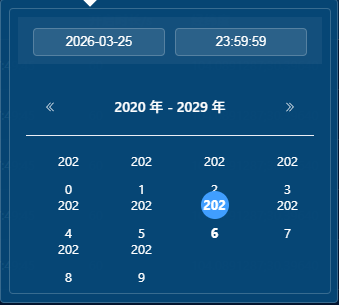
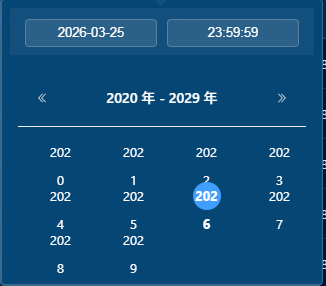
fix: 修复 DateTimePicker 日期选择器面板宽度和换行问题
- 设置弹出面板最小宽度 280px，年份表格最小宽度 240px
- 年份单元格固定宽度 60px，内容宽度 56px 防止换行
- 添加 white-space: nowrap 确保年份数字完整显示
- 弹出面板使用 absolute 定位显示在输入框下方

diff --git a/frontend/src/components/DateTimePicker.vue b/frontend/src/components/DateTimePicker.vue
@@ -99,23 +99,42 @@ const handleEndChange = (value: string) => {
 </style>
 
 <style>
-/* 年份选择面板 - 设置足够宽度防止换行 */
-.custom-date-picker.el-date-picker.has-sidebar {
-  width: auto !important;
+/* 日期选择器面板 - 设置最小宽度 */
+.custom-date-picker {
+  min-width: 280px !important;
 }
 
-/* 年份表格单元格宽度 */
+/* 年份选择面板 - 增加宽度防止换行 */
 .custom-date-picker .el-year-table {
   width: 100% !important;
+  min-width: 240px !important;
 }
 
+/* 年份单元格 - 设置足够宽度 */
 .custom-date-picker .el-year-table td {
-  width: 25% !important;
+  width: 60px !important;
+  min-width: 60px !important;
+  max-width: 60px !important;
+  padding: 4px 2px !important;
 }
 
+/* 年份单元格内容 - 防止换行 */
 .custom-date-picker .el-year-table td .cell {
-  display: inline-block !important;
-  width: 100% !important;
+  display: block !important;
+  width: 56px !important;
+  min-width: 56px !important;
+  text-align: center !important;
+  white-space: nowrap !important;
+  overflow: visible !important;
+}
+
+/* 月份选择面板 */
+.custom-date-picker .el-month-table td {
+  padding: 8px 0 !important;
+}
+
+.custom-date-picker .el-month-table td .cell {
+  display: block !important;
   text-align: center !important;
   white-space: nowrap !important;
 }
